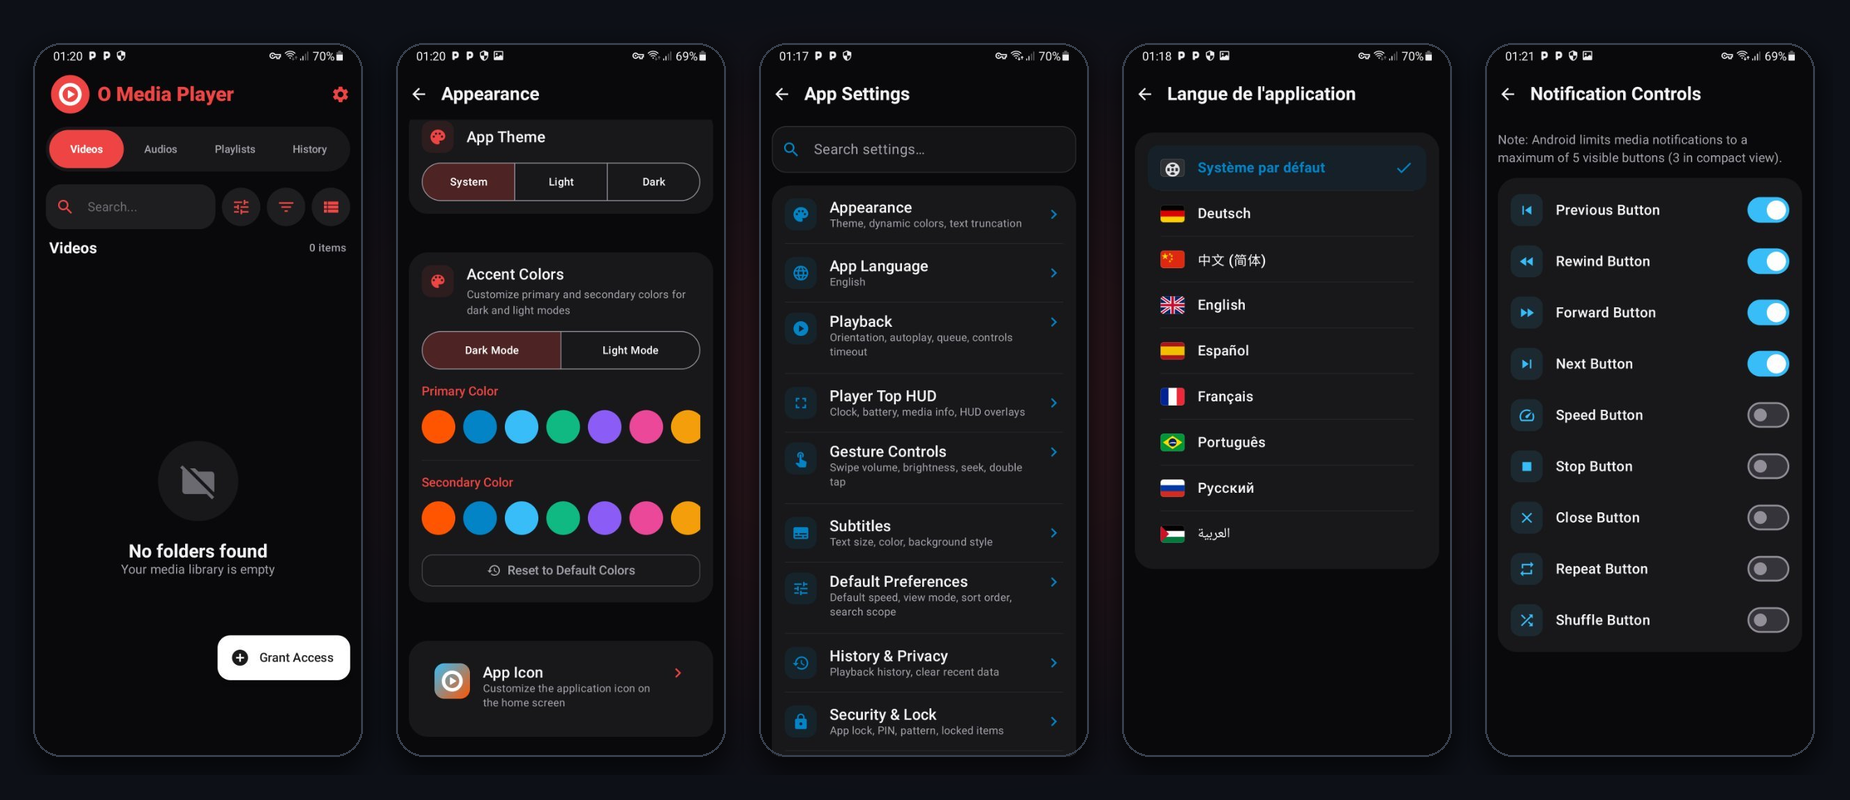
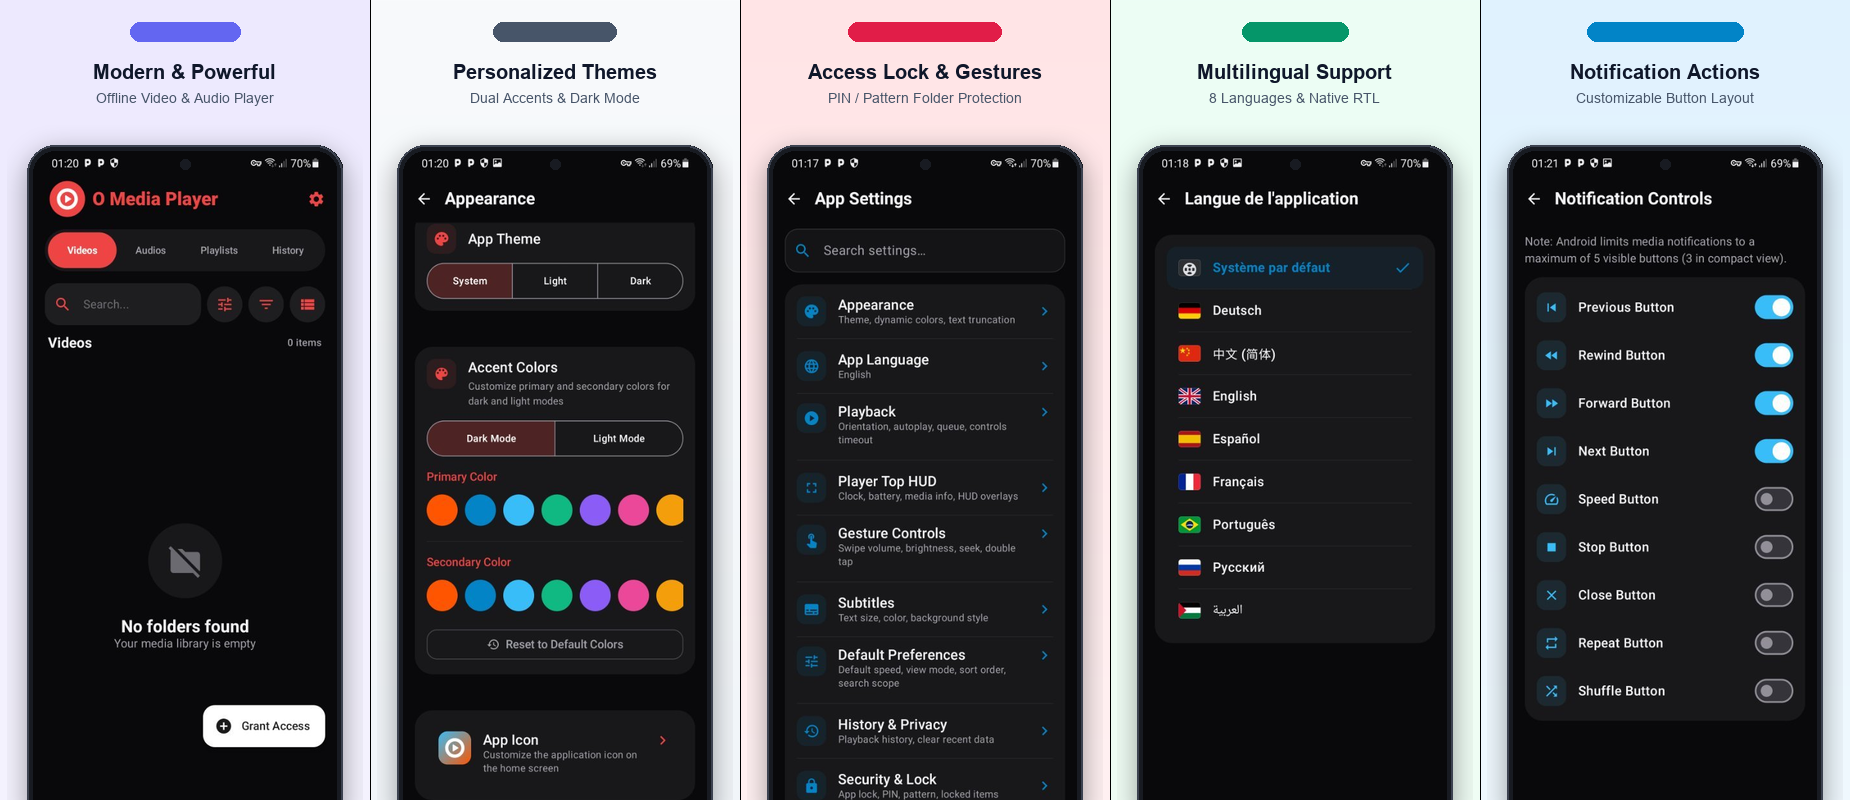
Redesign showcase screenshots to Budgora 5-panel layout and correct security lock naming

diff --git a/README.md b/README.md
@@ -11,7 +11,7 @@
   <a href="https://f-droid.org/packages/com.mohamedaminelouati.oplayer/"><img src="https://img.shields.io/badge/F--Droid-Available-blue?style=flat&logo=f-droid" alt="F-Droid" /></a>
 </p>
 
-**O Media Player** is an intuitive, modern, 100% offline, privacy-first multimedia player for Android featuring a powerful video player, high-fidelity music player, and a secure private vault.
+**O Media Player** is an intuitive, modern, 100% offline, privacy-first multimedia player for Android featuring a powerful video player, high-fidelity music player, and customizable security access lock.
 
 Developed & Maintained by **[Mohamed Amine Louati](https://mohamedaminelouati.pro/)**.
 
@@ -41,7 +41,7 @@ Developed & Maintained by **[Mohamed Amine Louati](https://mohamedaminelouati.pr
 - **Pure Dark & AMOLED Modes**: Modern Material 3 UI with customizable primary and secondary accent color palettes.
 - **Dynamic App Icon Customization**: Choose from multiple dual-color launcher icon styles directly within the app.
 - **Bidirectional Marquee**: Seamless single-line marquee title scrolling in the mini-player with full Right-to-Left (Arabic) and Left-to-Right support.
-- **Secure Vault (Private Media)**: Password, PIN, or Pattern protection to lock, hide, and safeguard sensitive media files from the public gallery.
+- **Security & Access Lock (PIN / Pattern)**: Secure app access, sensitive folders, and media playback with PIN or Pattern protection.
 - **Multilingual Support**: Fully localized into English, French, Arabic, German, Spanish, Portuguese, Russian, and Simplified Chinese.
 
 ---
